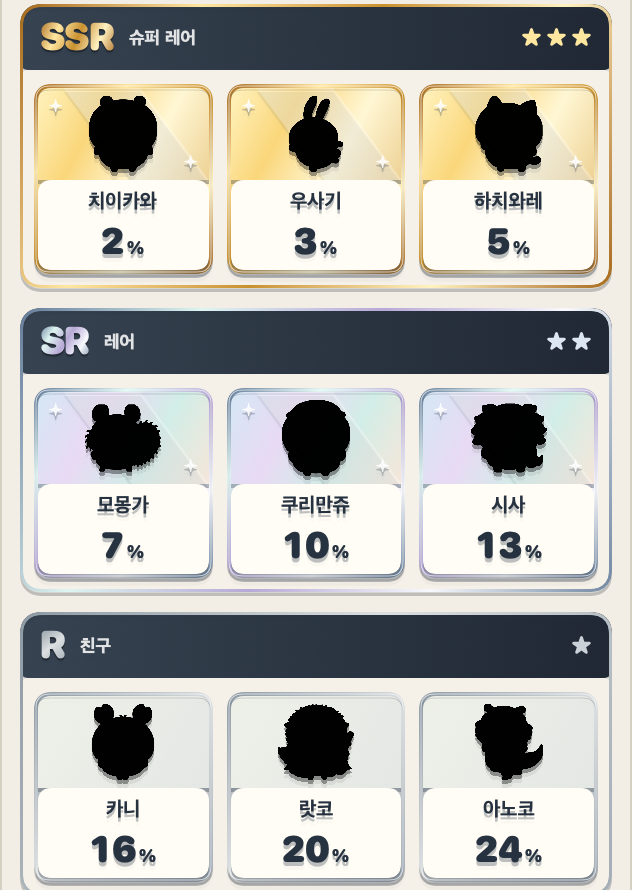
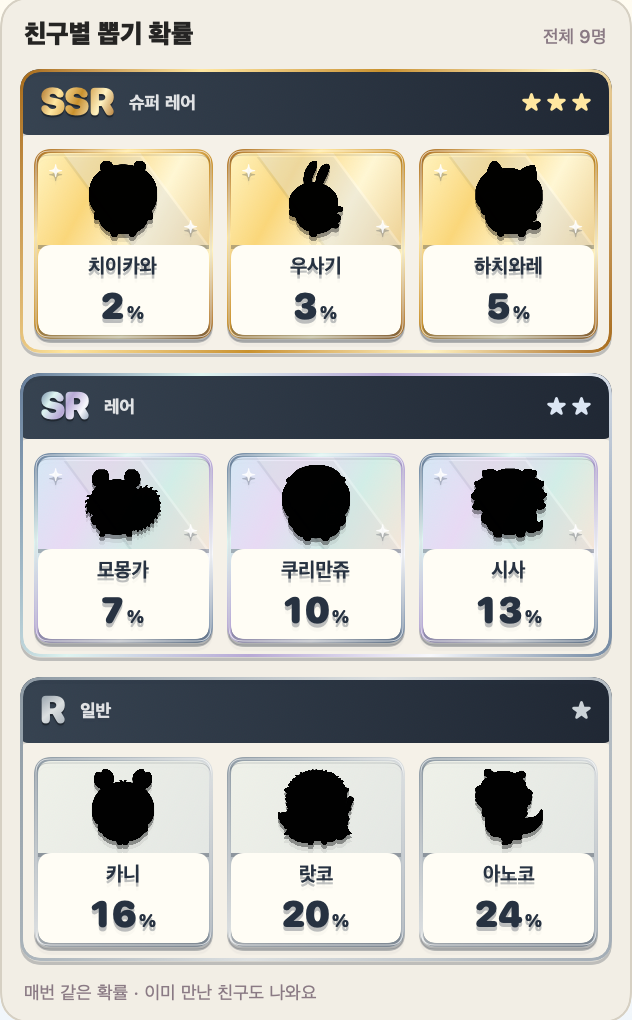
Unify collection and draw rarity materials in 0.4.8

diff --git a/Sources/ChiiBar/DrawOddsCard.swift b/Sources/ChiiBar/DrawOddsCard.swift
@@ -2,10 +2,10 @@ import ChiiCore
 import SwiftUI
 
 /// Our three game tiers, using foil/material contrast rather than a rainbow of panel fills.
-private struct CardFinish {
+struct CardFinish {
     let tier: Int
     var code: String { tier == 3 ? "SSR" : tier == 2 ? "SR" : "R" }
-    var name: String { tier == 3 ? "슈퍼 레어" : tier == 2 ? "레어" : "친구" }
+    var name: String { tier == 3 ? "슈퍼 레어" : tier == 2 ? "레어" : "일반" }
     var ink: Color { Ink.rgb(0x273241) }
     var edge: [Color] {
         (tier == 3 ? [0xA76A15, 0xFFE7A0, 0xC9912D, 0xFFF2C1, 0xA76A15] :
@@ -19,6 +19,35 @@ private struct CardFinish {
     }
     var emblem: Color { tier == 3 ? Ink.rgb(0xFFE7A0) : tier == 2 ? Ink.rgb(0xDCE6F3) : Ink.rgb(0xCBD2D7) }
     var gradient: LinearGradient { LinearGradient(colors: edge, startPoint: .topLeading, endPoint: .bottomTrailing) }
+}
+
+/// The same material appears on draw odds and owned-friend cards.
+struct CardFoilBackground: View {
+    let finish: CardFinish
+    var highlighted = false
+    var body: some View {
+        ZStack {
+                LinearGradient(colors: finish.foil, startPoint: .topLeading, endPoint: .bottomTrailing)
+                // Stationary foil facets stay legible and use no continuously running animation.
+                if finish.tier > 1 {
+                    GeometryReader { geo in
+                        Path { p in
+                            p.move(to: CGPoint(x: geo.size.width * 0.15, y: 0))
+                            p.addLine(to: CGPoint(x: geo.size.width * 0.60, y: 0))
+                            p.addLine(to: CGPoint(x: geo.size.width, y: geo.size.height))
+                            p.addLine(to: CGPoint(x: geo.size.width * 0.55, y: geo.size.height))
+                            p.closeSubpath()
+                        }.fill(.white.opacity(highlighted ? 0.55 : 0.28))
+                    }
+                    VStack {
+                        HStack { Image(systemName: "sparkle"); Spacer() }
+                        Spacer()
+                        HStack { Spacer(); Image(systemName: "sparkle") }
+                    }.font(.system(size: 7)).foregroundStyle(.white.opacity(0.9)).padding(5)
+                }
+        }
+        .accessibilityHidden(true)
+    }
 }
 
 struct DrawOddsCard: View {
@@ -84,24 +113,7 @@ private struct OddsCollectorCard: View {
     var body: some View {
         VStack(spacing: 0) {
             ZStack {
-                LinearGradient(colors: finish.foil, startPoint: .topLeading, endPoint: .bottomTrailing)
-                // Stationary foil facets stay legible and use no continuously running animation.
-                if finish.tier > 1 {
-                    GeometryReader { geo in
-                        Path { p in
-                            p.move(to: CGPoint(x: geo.size.width * 0.15, y: 0))
-                            p.addLine(to: CGPoint(x: geo.size.width * 0.60, y: 0))
-                            p.addLine(to: CGPoint(x: geo.size.width, y: geo.size.height))
-                            p.addLine(to: CGPoint(x: geo.size.width * 0.55, y: geo.size.height))
-                            p.closeSubpath()
-                        }.fill(.white.opacity(hovering ? 0.55 : 0.28))
-                    }
-                    VStack {
-                        HStack { Image(systemName: "sparkle"); Spacer() }
-                        Spacer()
-                        HStack { Spacer(); Image(systemName: "sparkle") }
-                    }.font(.system(size: 7)).foregroundStyle(.white.opacity(0.9)).padding(5)
-                }
+                CardFoilBackground(finish: finish, highlighted: hovering)
                 Canvas { context, size in
                     _ = SpriteArt.drawFace(context, friend, in: CGRect(origin: .zero, size: size), silhouette: true)
                 }.frame(width: 38, height: 38)

diff --git a/Sources/ChiiBar/PopoverView.swift b/Sources/ChiiBar/PopoverView.swift
@@ -499,31 +499,41 @@ struct CollectionCard: View {
     @ObservedObject var model: AppModel
     let friend: FriendID
     var house: House? { model.state.houses[friend] }
+    private var finish: CardFinish { CardFinish(tier: friend.rarity) }
     var body: some View {
         Button { model.select(friend) } label: {
-            VStack(spacing: 4) {
+            VStack(spacing: 0) {
                 Canvas { ctx, size in
                     if house != nil {
-                        FriendArt.draw(ctx, friend, base: CGPoint(x: size.width / 2, y: size.height - 2), size: 28, pose: Pose())
+                        FriendArt.draw(ctx, friend, base: CGPoint(x: size.width / 2, y: size.height - 3), size: 28, pose: Pose())
                     } else {
-                        ctx.draw(Text("?").font(.system(size: 30, weight: .bold)).foregroundColor(Theme.soft),
+                        ctx.draw(Text("?").font(.system(size: 30, weight: .bold)).foregroundColor(finish.ink.opacity(0.5)),
                                  at: CGPoint(x: size.width / 2, y: size.height / 2))
                     }
-                }.frame(height: 50)
-                Text(friend.name).font(.system(size: 12, weight: .bold))
-                Text(house.map { HousePlan.name(of: $0.stage) } ?? "미보유")
-                    .font(.system(size: 9)).foregroundStyle(Theme.soft)
-                    .lineLimit(2).multilineTextAlignment(.center)
-                    .frame(height: 24)
+                }
+                .frame(height: 56)
+                .background(CardFoilBackground(finish: finish))
+                VStack(spacing: 3) {
+                    Text(friend.name).font(.system(size: 12, weight: .bold))
+                        .foregroundStyle(finish.ink)
+                    Text(house.map { HousePlan.name(of: $0.stage) } ?? "미보유")
+                        .font(.system(size: 9)).foregroundStyle(Theme.soft)
+                        .lineLimit(2).multilineTextAlignment(.center)
+                        .frame(height: 24)
+                }
+                .frame(maxWidth: .infinity).padding(.vertical, 5)
+                .background(Ink.rgb(0xFFFDF5))
             }
-            .frame(maxWidth: .infinity).padding(.vertical, 5)
-            .background(house == nil ? Ink.rgb(0xECE8EC) : friend.chipTint, in: RoundedRectangle(cornerRadius: 12))
-            .overlay(RoundedRectangle(cornerRadius: 12).stroke(model.state.current == friend ? Theme.accent : Ink.rgb(0xD8CCAE), lineWidth: model.state.current == friend ? 2 : 1))
+            .clipShape(RoundedRectangle(cornerRadius: 8))
+            .padding(2)
+            .background(finish.gradient, in: RoundedRectangle(cornerRadius: 10))
+            .overlay(RoundedRectangle(cornerRadius: 10).strokeBorder(model.state.current == friend ? Theme.actionText : .clear, lineWidth: 2))
+            .opacity(house == nil ? 0.65 : 1)
         }
-        .compositingGroup()
-            .shadow(color: Ink.rgb(0xD8CCAE).opacity(0.45), radius: 0, y: 3)
+        .shadow(color: finish.ink.opacity(0.14), radius: 0, y: 2)
         .buttonStyle(.plain).disabled(house == nil || model.building)
-        .accessibilityLabel("\(friend.name), \(house == nil ? "미보유" : "집으로 이동")")
+        .accessibilityLabel("\(friend.name), \(finish.name), \(house.map { HousePlan.name(of: $0.stage) } ?? "미보유"), \(house == nil ? "아직 만나지 않은 친구" : "집으로 이동")")
+        .accessibilityAddTraits(model.state.current == friend ? .isSelected : [])
     }
 }
 

diff --git a/Sources/ChiiBar/Previews.swift b/Sources/ChiiBar/Previews.swift
@@ -33,7 +33,7 @@ enum Previews {
             model.state.current = .kurimanju
             model.state.houses[.kurimanju] = House(stage: 1, progress: 5000)
             save("home", CGSize(width: 340, height: 640), PopoverView(model: model))
-            save("odds", CGSize(width: 316, height: 445), DrawOddsCard(firstDraw: false).background(Theme.background))
+            save("odds", CGSize(width: 316, height: 510), DrawOddsCard(firstDraw: false).background(Theme.background))
             model.state.houses[.kurimanju] = House(stage: 1, progress: 20000)
             save("ready", CGSize(width: 340, height: 640), PopoverView(model: model))
             for elapsed in [1.0, 3.6, 5.2] {
@@ -41,6 +41,19 @@ enum Previews {
                 model.gacha = session
                 save("draw_\(elapsed)", CGSize(width: 340, height: 640), PopoverView(model: model))
             }
+            for (index, friend) in FriendID.allCases.enumerated() {
+                model.state.houses[friend] = House(stage: min(13, index + 5))
+            }
+            model.state.houses.removeValue(forKey: .anoko)
+            save("collection", CGSize(width: 316, height: 380), VStack(spacing: 10) {
+                ForEach(0..<3) { row in
+                    HStack(spacing: 8) {
+                        ForEach(0..<3) { column in
+                            CollectionCard(model: model, friend: DrawOdds.ranked[row * 3 + column])
+                        }
+                    }
+                }
+            }.padding(4).background(Theme.background))
             return
         }
 
